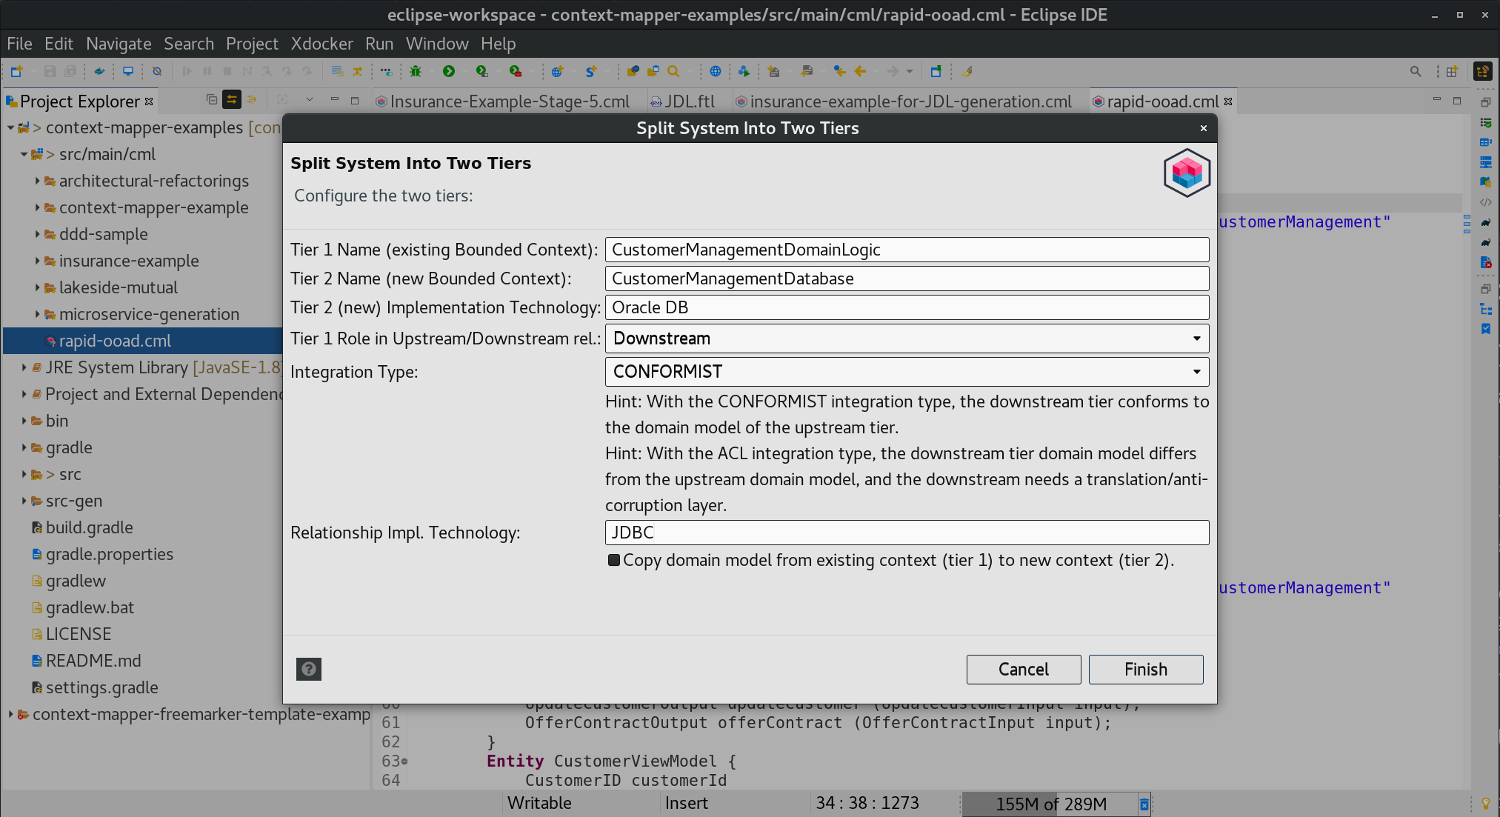
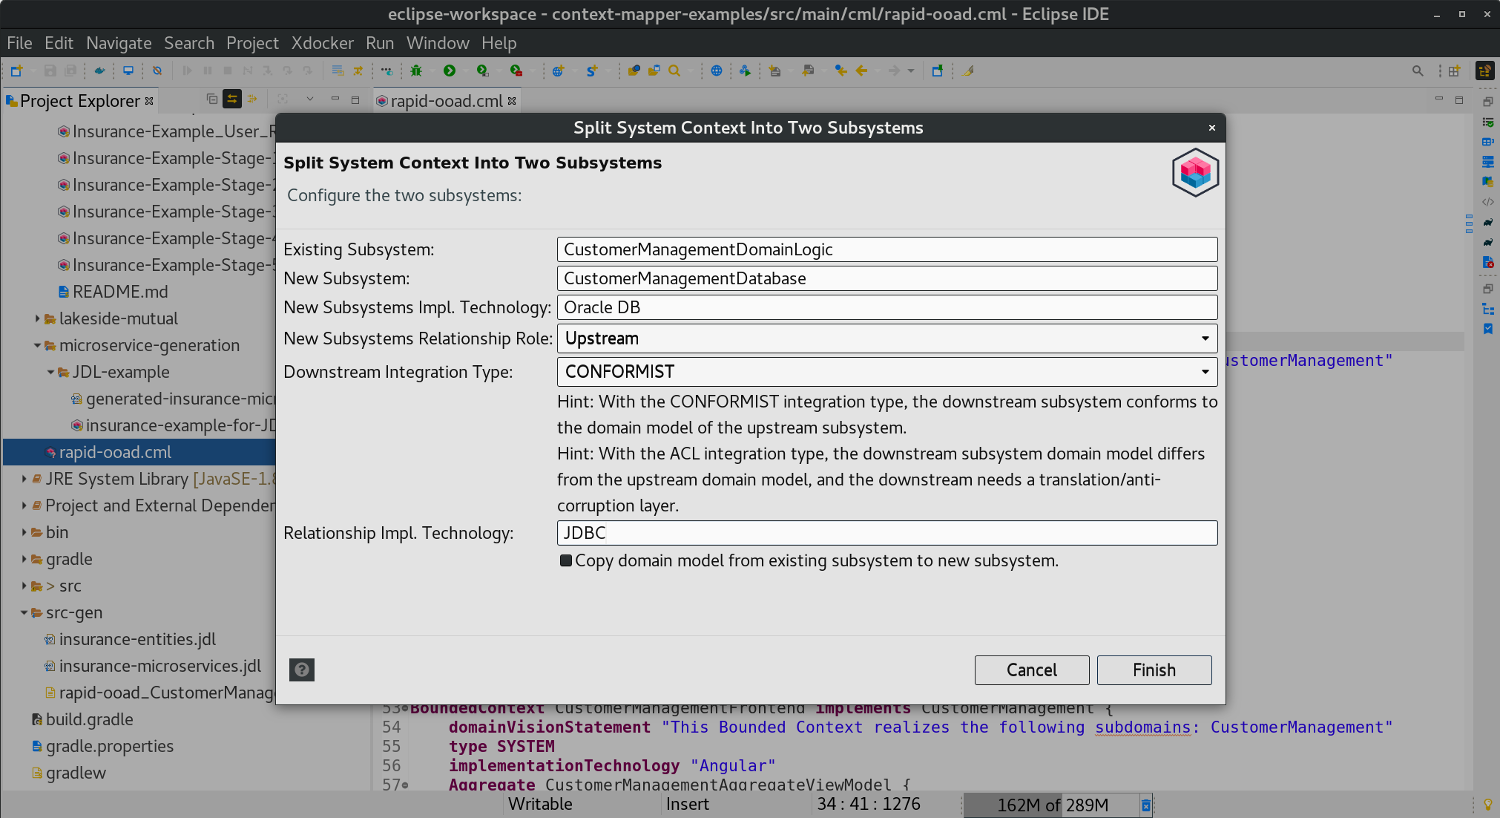
Update page ('tier' replaced with 'subsystem')

diff --git a/_docs/modeling-tools/rapid-ooad.md b/_docs/modeling-tools/rapid-ooad.md
@@ -25,7 +25,7 @@ The transformations support the following process:
    the application from a more physical perspective)
    - We offer transformations to model the FEATURE or APPLICATION Bounded Contexts in terms SYSTEMS in order to model the physical (deployment) perspective.
      - Find more about the different types of Bounded Contexts [here](/docs/bounded-context/#bounded-context-type).
-   - The generated Bounded Context model the different systems or tiers of one application (frontend and backend, and/or other tiers).
+   - The generated Bounded Context model the different systems or subsystems of one application (frontend and backend, and/or other subsystems).
 
 In the following we illustrate the process with an example (fictitious insurance example).
 
@@ -137,13 +137,13 @@ Subdomains. The entities are enriched with identify attributes, and the services
 As the _TODO_ comments indicate, a user can now refactor the resulting Aggregate (for example by using [Split Aggregate by Entities](/docs/ar-split-aggregate-by-entities/)), and 
 add further details such as attributes (entities) and operations (entities/services).
 
-## Step 4: Derive Systems (Application Tiers)
+## Step 4: Derive Systems
 The Bounded Contexts generated in the step three above represent FEATUREs and/or APPLICATIONs (find more about the different types of Bounded Context [here](/docs/bounded-context/#bounded-context-type)).
 If you want to model such an application or feature context from a more physical- or deployment perspective, you can now derive Bounded Contexts of the type SYSTEM from them.
 
 ### Derive Frontend and Backend Systems
 We renamed the Bounded Context _NewContextFromSubdomains_ from above to _CustomerManagement_ now. As already mentioned, it represents a feature or application. On such
-Bounded Context we can now apply the _Derive Frontend and Backend Systems_ transformation to model the systems/tiers of the application:
+Bounded Context we can now apply the _Derive Frontend and Backend Systems_ transformation to model the systems/subsystems of the application:
 
 <a target="_blank" href="/img/derive-frontend-backend-from-feature-1.png">![Derive Frontend and Backend Systems from FEATURE](/img/derive-frontend-backend-from-feature-1.png)</a>
 
@@ -211,17 +211,17 @@ Applying the transformation as shown above generates the following Bounded Conte
 Now you already have an Upstream-Downstream relationship that exposes an Aggregate, which means you can generate a service contract with our
 [MDSL (Micro-)Service Contracts Generator](/docs/mdsl/). Of course you can use all the other [generators](/docs/generators/) as well.
 
-### Split System Into Tiers
-Having derived a frontend and backend system, you may want to split the systems into multiple tiers. For example: your backend maybe consists of a _domain logic_ and a 
-_database_ tier. We provide another model transformation to split a system into two tiers for such a case:
+### Split System Context Into Subsystems
+Having derived a frontend and backend system, you may want to split the systems into multiple subsytems. For example: your backend maybe consists of a _domain logic_ and a 
+_database_ subsystem (or _tier_). We provide another model transformation to split a system into two subsystems for such a case:
 
-<a target="_blank" href="/img/split-system-into-two-tiers-1.png">![Split System Into Two Tiers](/img/split-system-into-two-tiers-1.png)</a>
+<a target="_blank" href="/img/split-system-into-two-tiers-1.png">![Split System Into Two Subsystems](/img/split-system-into-two-tiers-1.png)</a>
 
-Similar to the last transformation you can configure how the tiers are named and how they shall integrate (see CONFORMIST vs. ACL above):
+Similar to the last transformation you can configure how the subsystems are named and how they shall integrate (see CONFORMIST vs. ACL above):
 
-<a target="_blank" href="/img/split-system-into-two-tiers-2.png">![Split System Into Two Tiers (Dialog)](/img/split-system-into-two-tiers-2.png)</a>
+<a target="_blank" href="/img/split-system-into-two-tiers-2.png">![Split System Into Two Subsystems (Dialog)](/img/split-system-into-two-tiers-2.png)</a>
 
-_Note:_ This transformation does not create two new Bounded Contexts. It uses the existing context for the first tier and creates one new Bounded Context for the second tier.
+_Note:_ This transformation does not create two new Bounded Contexts. It uses the existing context for the first subsystem and creates one new Bounded Context for the second subsystem.
 
 The transformation leads to the following result (with the configuration as shown above):
 
@@ -284,9 +284,9 @@ The transformation leads to the following result (with the configuration as show
 }
 </pre></div>
 
-_Note:_ It is also possible to copy the domain model into the second tier (was not selected for the _CustomerManagementDatabase_ context above) with the corresponding checkbox on the dialog.
+_Note:_ It is also possible to copy the domain model into the second subsystem (was not selected for the _CustomerManagementDatabase_ context above) with the corresponding checkbox on the dialog.
 
-You can model application architectures with more than two tiers by applying this transformation multiple times.
+You can model application architectures with more than two subsystems by applying this transformation multiple times.
 
 ## What’s Next?
 Once you derived your initial Bounded Contexts, you can:
@@ -306,7 +306,7 @@ Once you derived your initial Bounded Contexts, you can:
 ## Frequently Asked Questions (FAQs)
 
  * Whats the difference between the transformations described above and the [Architectural Refactorings (ARs)](/docs/architectural-refactorings/)?
-   * Some of the model transformations described here, such as _Split System Into Tiers_, may seem similar to some of our ARs (_Split Bounded Context by ..._). However, there
+   * Some of the model transformations described here, such as _Split System Context Into Two Subsystems_, may seem similar to some of our ARs (_Split Bounded Context by ..._). However, there
      are different ideas behind the concepts.
    * The OOAD transformations above are designed to evolve a CML model from functional requirements rapidly. The transformations typically generate new elements into your model.
    * The [Architectural Refactorings (ARs)](/docs/architectural-refactorings/) on the other hand are designed to change/improve an existing model and architecture. They 
